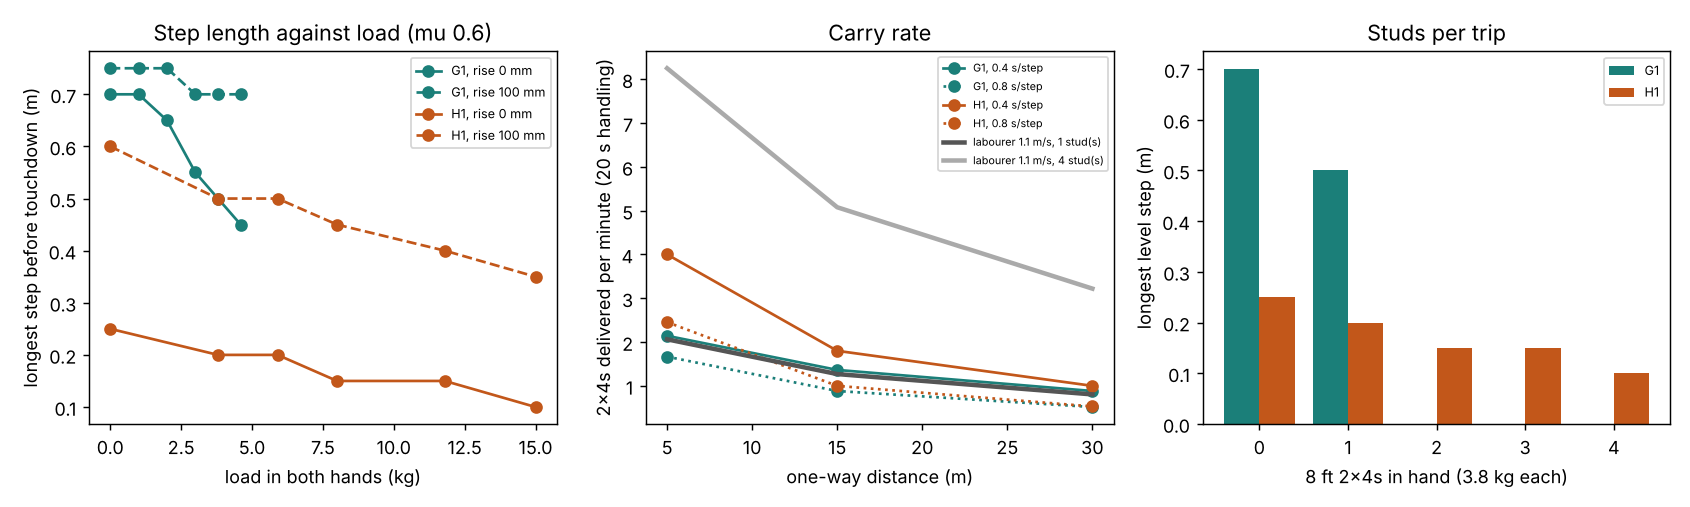
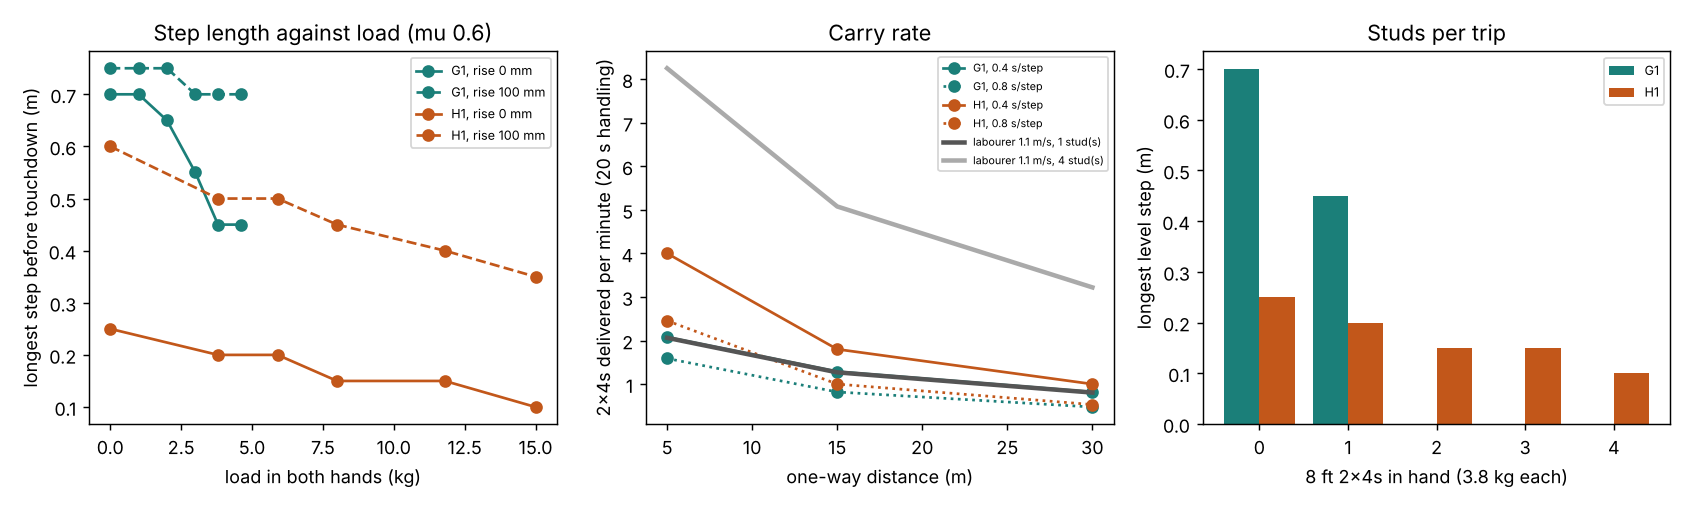
buildbot-carry: re-run on MuJoCo 4.0.0, G1 one-stud step 0.45 m (not 0.50), loaded limit is the pose solver not a motor
Quality audit 2026-11-07, defect 1: the committed 0.50 m headline did not
reproduce. Full re-run: only that cell moved; carry-rate ratios become
0.59-1.02x (one-stud labourer) and 0.15-0.25x (bundle of four). results.json
now records the build. README stops saying the waist pitch 'binds' (it is at
0.79-0.86 of its limit; the step stops at 'reach'). A test ties the headline
cell to max_step.

Prompt-Version: quality/0
Claude-Session: https://claude.ai/code/session_01E5sJKiTbFPiDB1G7CvBv59

diff --git a/research/buildbot-carry/tests/test_model.py b/research/buildbot-carry/tests/test_model.py
@@ -176,3 +176,19 @@ def test_unloaded_g1_step_is_capped_by_friction_at_mu_0_3(g1):
     assert L == pytest.approx(0.35)
     assert why == "friction"
     assert (L / 2) / st.com_height <= 0.3 < ((L + 0.05) / 2) / st.com_height
+
+
+def test_committed_headline_matches_the_code(g1):
+    """The G1 one-stud level step in results.json (and the README headline) is what max_step gives
+    now. Quality audit 2026-11-07: the committed 0.50 m was 0.45 m on a re-run and no test noticed.
+    The step sits at the edge of the pose solver's convergence, so a different MuJoCo/NumPy build
+    can move it a grid point; the message names the build that wrote the table."""
+    import json
+    from pathlib import Path
+    res = json.loads((Path(__file__).resolve().parents[1] / "experiments" / "results.json").read_text())
+    r, d0 = g1
+    for kg in (0.0, 3.8):
+        want = res["envelope"]["g1"][f"{kg}|0.0"]["L"]
+        got, _, _ = C.max_step(r, d0, (0.3, 0.6), kg)
+        assert got == want, (f"G1 {kg} kg level step is {got} m here (mujoco {mujoco.__version__}), "
+                             f"{want} m in results.json ({res.get('versions')}): re-run experiments/run.py")

diff --git a/research/buildbot-carry/README.md b/research/buildbot-carry/README.md
@@ -4,7 +4,7 @@ Fourth project of track 20, robots on the residential building site (`PROJECTS.m
 
 **Live page:** https://marisstella.app/research/buildbot-carry/
 
-**Headline.** For the instant before touchdown (the hardest of a step) with a stud-carry pose (reach 0.3 m, height 0.6 m), the simulated **G1 can take a 0.70 m step unloaded, 0.50 m with one 3.8 kg 2x4, and 0.45 m at 4.6 kg** (its waist pitch motor binds under load). It **cannot carry two studs** (7.6 kg is above its static capacity). The **H1 takes 0.25 m unloaded, 0.20 m with one stud and 0.10 m with 15 kg**, and cannot step up a 7¾ in (0.197 m) riser at all. Friction matters: at mu 0.3 the G1's loaded step halves to 0.35 m. Turned into carry rates (8 ft 2x4s, 5 to 30 m trips, 20 s handling, step time 0.4 to 0.8 s): a G1 carrying one stud delivers **0.64 to 1.10 times** what a labourer carrying one stud at 1.1 m/s does and **0.16 to 0.27 times** what a labourer with a bundle of four does; an H1 carrying 3 to 4 studs gets **0.66 to 1.94 times** the one-stud labourer and **0.16 to 0.48 times** the bundle-carrier. So under these assumptions neither robot beats a labourer who takes a bundle; the H1 beats one who takes a single stud when the trip is short.
+**Headline.** For the instant before touchdown (the hardest of a step) with a stud-carry pose (reach 0.3 m, height 0.6 m), the simulated **G1 can take a 0.70 m step unloaded and 0.45 m with one 3.8 kg 2x4 or with 4.6 kg**. Unloaded, friction stops it; loaded, the pose solver finds no pose for the next 5 cm step (`reach`), with the waist pitch motor, the most loaded joint, at 0.79 to 0.86 of its peak torque, so the limit is the pose, not a motor. It **cannot carry two studs** (7.6 kg is above its static capacity). The **H1 takes 0.25 m unloaded, 0.20 m with one stud and 0.10 m with 15 kg**, and cannot step up a 7¾ in (0.197 m) riser at all. Friction matters: at mu 0.3 the G1's loaded step halves to 0.35 m. Turned into carry rates (8 ft 2x4s, 5 to 30 m trips, 20 s handling, step time 0.4 to 0.8 s): a G1 carrying one stud delivers **0.59 to 1.02 times** what a labourer carrying one stud at 1.1 m/s does and **0.15 to 0.25 times** what a labourer with a bundle of four does; an H1 carrying 3 to 4 studs gets **0.66 to 1.94 times** the one-stud labourer and **0.16 to 0.48 times** the bundle-carrier. So under these assumptions neither robot beats a labourer who takes a bundle; the H1 beats one who takes a single stud when the trip is short.
 
 ![Step envelope and carry rate](experiments/figure.png)
 
@@ -30,18 +30,19 @@ Fourth project of track 20, robots on the residential building site (`PROJECTS.m
 ```bash
 pip install mujoco numpy matplotlib pytest
 cd research/buildbot-carry
-python -m pytest -q tests          # 7 tests; first run clones the two models (git + network)
-python experiments/run.py > experiments/results.txt   # about 8 min on one CPU, deterministic
+python -m pytest -q tests          # 23 tests; first run clones the two models (git + network)
+python experiments/run.py > experiments/results.txt   # about 8 min on one CPU; same numbers on the same MuJoCo/NumPy build (versions in results.json)
 python experiments/figure.py
 ```
 
 ## Results (`experiments/results.txt`, `results.json`)
-- **G1, level ground, mu 0.6.** Longest step 0.70 m unloaded and with 1 kg, 0.65 at 2, 0.55 at 3, 0.50 at 3.8, 0.45 at 4.6 kg. The binding joint at the longest step moves from the ankle pitch (0 to 1 kg) to the hip roll (2 kg) to the waist pitch (3 kg and above; 0.87 of its limit at 4.6 kg). It steps up a 0.197 m riser with up to 3.8 kg (0.75 m), but with 4.6 kg only 0.05 m passes, which I did not investigate.
-- **H1.** 0.25, 0.20, 0.20, 0.15, 0.15, 0.10 m at 0, 3.8, 5.9, 8, 11.8, 15 kg; the ankle then the hip pitch binds (0.93 of the limit at 15 kg). No step passes for a 0.197 m riser. The longest step is not monotone in the rise (0.25 level, 0.60 at 0.10 m, 0.50 at 0.15 m): I read it as a pose artefact of the flat-sole, straight-stance model, not a finding, and did not resolve it.
-- **Sensitivity.** Foot gap 0.15 to 0.25 m changes the G1's loaded step by 0.05 m and the H1's by 0.1 m. At mu 0.3 the G1 drops to 0.35 m both unloaded and loaded; the H1 is unaffected (reach-limited).
-- **Carry rate** (20 s handling, labourer 1.1 m/s). G1 (one stud, 1.25 to 0.62 m/s as T goes 0.4 to 0.8 s): 0.88 to 2.14 studs/min against 0.80 to 2.06 for a one-stud labourer, and 3.2 to 8.3 for a bundle of four. H1 (3 to 4 studs at 0.19 to 0.37 m/s): 0.53 to 4.00 studs/min. The vendor cap never binds.
+- **G1, level ground, mu 0.6.** Longest step 0.70 m unloaded and with 1 kg, 0.65 at 2, 0.55 at 3, 0.45 at 3.8 and at 4.6 kg. At 0 and 1 kg friction stops the next step; from 2 kg up the pose solver finds no pose for it (`reach`), and no joint is over its limit at the longest step. The most loaded joint there moves from the ankle pitch (0 to 1 kg) to the hip roll (2 kg) to the waist pitch (3 kg and above; 0.86 of its limit at 4.6 kg). It steps up a 0.197 m riser with up to 3.8 kg (0.75 m), but with 4.6 kg only 0.05 m passes, which I did not investigate.
+- **H1.** 0.25, 0.20, 0.20, 0.15, 0.15, 0.10 m at 0, 3.8, 5.9, 8, 11.8, 15 kg; the most loaded joint is the ankle, then the hip pitch (0.93 of the limit at 15 kg); every length except the 15 kg one stops at `reach`, not at a torque limit. No step passes for a 0.197 m riser. The longest step is not monotone in the rise (0.25 level, 0.60 at 0.10 m, 0.50 at 0.15 m): I read it as a pose artefact of the flat-sole, straight-stance model, not a finding, and did not resolve it.
+- **Sensitivity.** Foot gap 0.15 to 0.25 m changes the G1's loaded step by 0.1 m (0.55 at 0.15 and 0.25 m, 0.45 at 0.2 m) and the H1's by 0.1 m. At mu 0.3 the G1 drops to 0.35 m both unloaded and loaded; the H1 is unaffected (reach-limited).
+- **Carry rate** (20 s handling, labourer 1.1 m/s). G1 (one stud, 1.12 to 0.56 m/s as T goes 0.4 to 0.8 s): 0.47 to 2.08 studs/min against 0.80 to 2.06 for a one-stud labourer, and 3.2 to 8.3 for a bundle of four. H1 (3 to 4 studs at 0.19 to 0.37 m/s): 0.53 to 4.00 studs/min. The vendor cap never binds.
 
 ## Limitations
+- **Pose-solver limited, and build-sensitive.** Most loaded step lengths end where the Levenberg-Marquardt pose solver stops converging (`reach`), not at a torque or friction limit, and that edge can move one grid point between builds: the G1 one-stud step was 0.50 m on the build that first produced these tables and is 0.45 m on MuJoCo 4.0.0 / NumPy 2.5.3 (re-run 2026-11-11 after the [quality audit](../../portfolio/quality/audits/2026-11-07-buildbot-carry.json); only that cell changed). Whether `reach` is a true kinematic limit or a local minimum of the solver is not settled.
 - **Not a walking policy.** No simulation of a walking controller, so no falls, dropped items, slip or metres-per-minute were measured, and no energy per item (no sourced motor constants). The milestone's scoring over `terrain-twin` ramps is not done; only a flat step and a riser are.
 - **Restrictive, so not a bound.** Flat soles, ZMP at the sole point (the ZMP check in the tests is true by construction), CoM exactly L/2 ahead at touchdown, no double support and no foot-roll rocking. It leaves out swing-leg inertia, angular momentum, joint speeds, impacts and lateral sway. The H1's 0.25 m versus Unitree's 3.3 m/s claim shows the gait, not the robot, is limiting.
 - **The labourer side is mine.** Speed, bundle size and handling time are assumptions; the conclusions about the bundle-carrier follow from the bundle size I chose.

diff --git a/research/README.md b/research/README.md
@@ -873,7 +873,7 @@ Moved here from the former `oss-research-monorepo` repository with its history. 
 - [`research/accel-ttsizes`](accel-ttsizes) — Tiny Tapeout's real SKY130 tile sizes (1x1 is 161 × 111.52 µm = 17,955 µm², 0.43% below the value assumed earlier) applied to the synthesised keyword-spotting engine and the retrained models: the best 1x1 model is unchanged at 100% and 50% utilisation and flips at 70% (H = 16, 4-bit, 0.596 instead of 8-bit, 0.616, a 29 µm² miss); H = 64 with 8-bit weights (0.737) fits a 1x2 tile.
 - [`research/aerolog-scaling`](aerolog-scaling) — research programme (proposal stage): per-quantity error budget for a Froude-scaled cargo aircraft model, with a stdlib scaling calculator; first-order result: at 1:10 the model needs 17 to 35% more power than Froude scaling predicts
 - [`research/build-data`](build-data) — research programme: LightGBM quantile models beat the per-city, per-type empirical-quantile baseline on pinball loss in 13 of 15 city/target/quantile cells (2024 test year, Chicago, San Francisco, Austin); Chicago's tails are the exception
-- [`research/buildbot-carry`](buildbot-carry) — can a stock humanoid carry a stud faster than a labourer? A MuJoCo single-support step envelope: the G1 steps 0.50 m with one 2x4 and cannot carry two; the H1 steps 0.20 m with one and 0.10 m with 15 kg; neither beats a labourer who takes a bundle of four, and the model is restrictive (no falls, drops or energy scored).
+- [`research/buildbot-carry`](buildbot-carry) — can a stock humanoid carry a stud faster than a labourer? A MuJoCo single-support step envelope: the G1 steps 0.45 m with one 2x4 and cannot carry two; the H1 steps 0.20 m with one and 0.10 m with 15 kg; neither beats a labourer who takes a bundle of four, and the model is restrictive (no falls, drops or energy scored).
 - [`research/buildbot-carrycop`](buildbot-carrycop) — does moving the planned centre of pressure along the sole raise a humanoid's carry speed? Not by a constant offset: the G1's 4 kg result moves one grid cell (0.10 to 0.13 m/s) and joint torques, not the sole, set the limit.
 - [`research/buildbot-carryphase`](buildbot-carryphase) — can a stock Unitree G1 or H1 carry a stud as fast as a labourer? A pendulum gait with no trunk compensation gets the G1 to 0.25 m/s unloaded and 0.10 m/s at 4 kg; a robot with one piece per trip would need 4-13 m/s to match a labourer carrying three.
 - [`research/buildbot-carryramp`](buildbot-carryramp) — does a heel-to-toe sweep of the planned centre of pressure raise a humanoid's carry speed? No: one grid cell for the G1 at 4 kg and the unloaded H1, and nothing for heavier loads, because joint torques set the limit.
